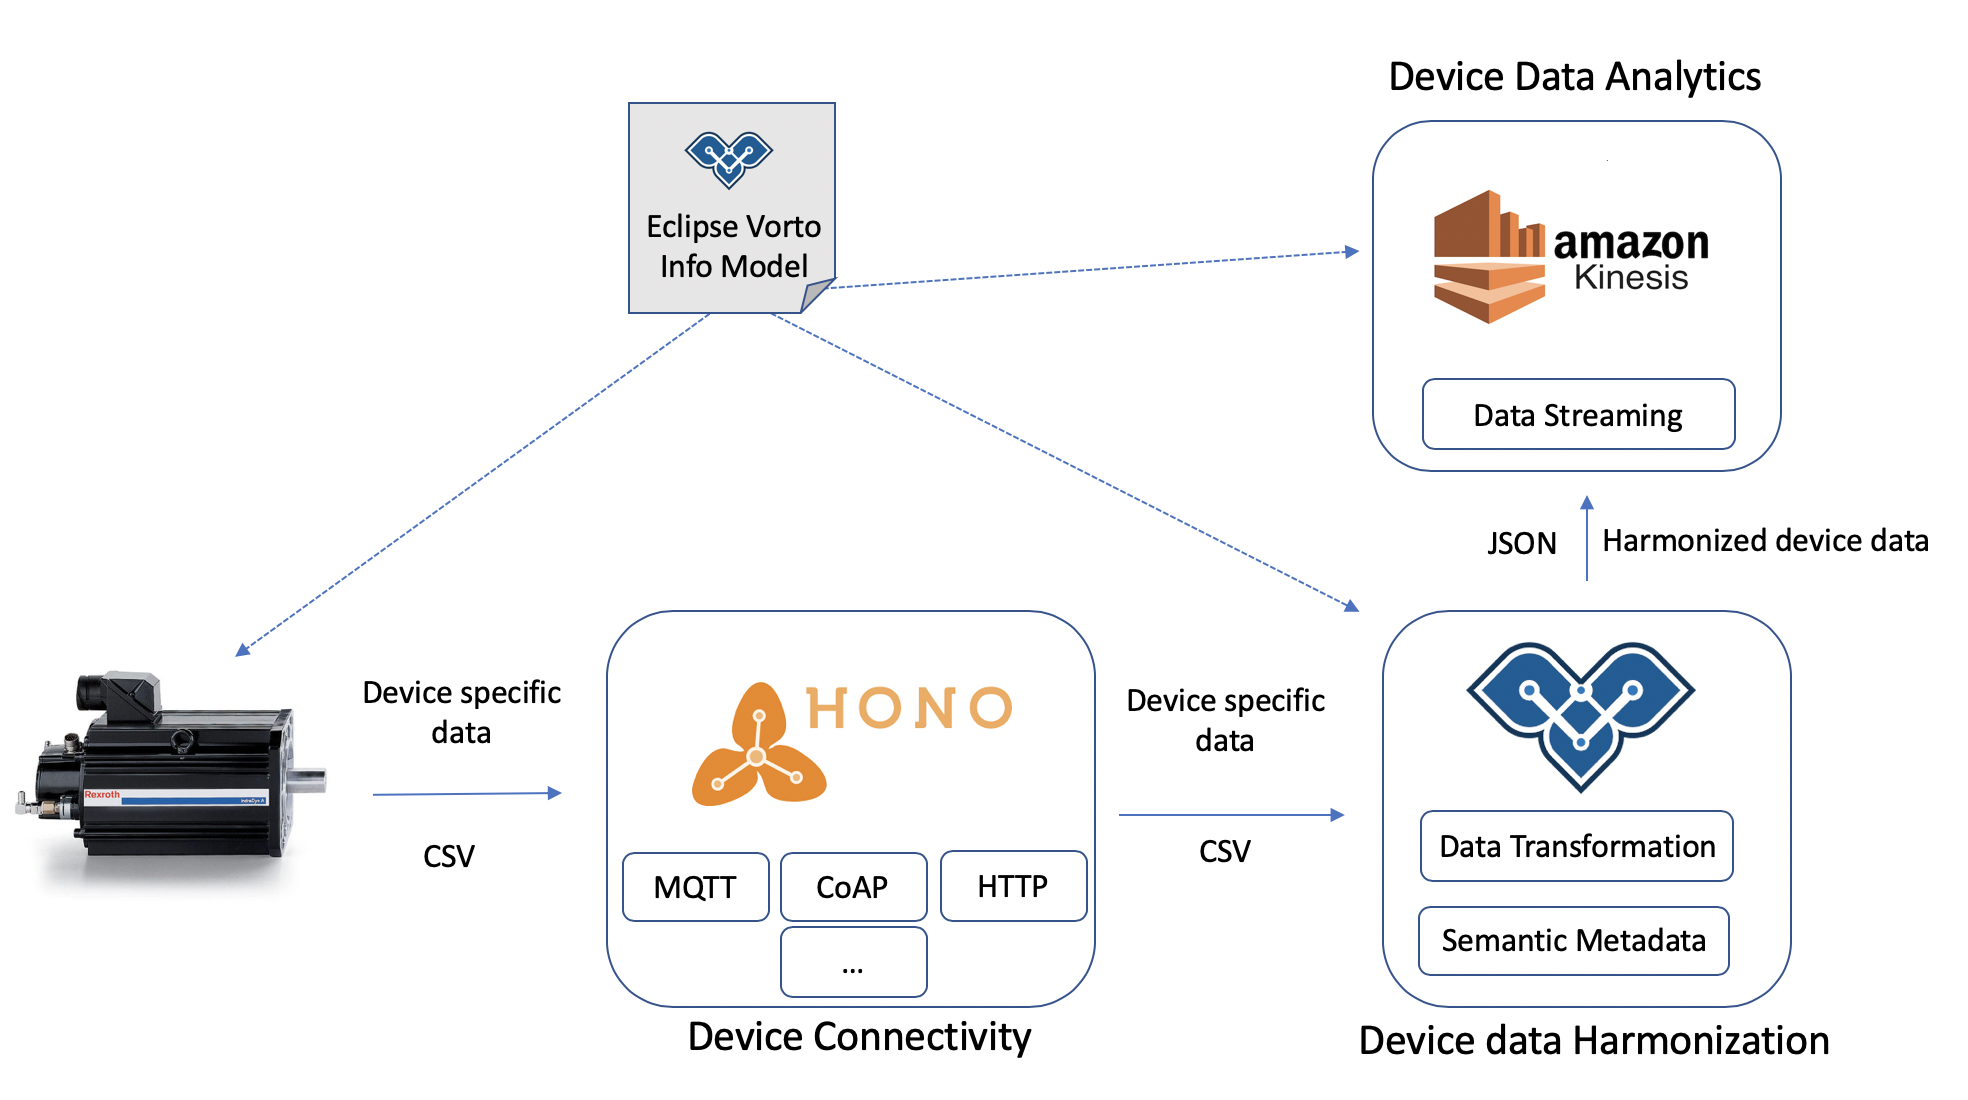
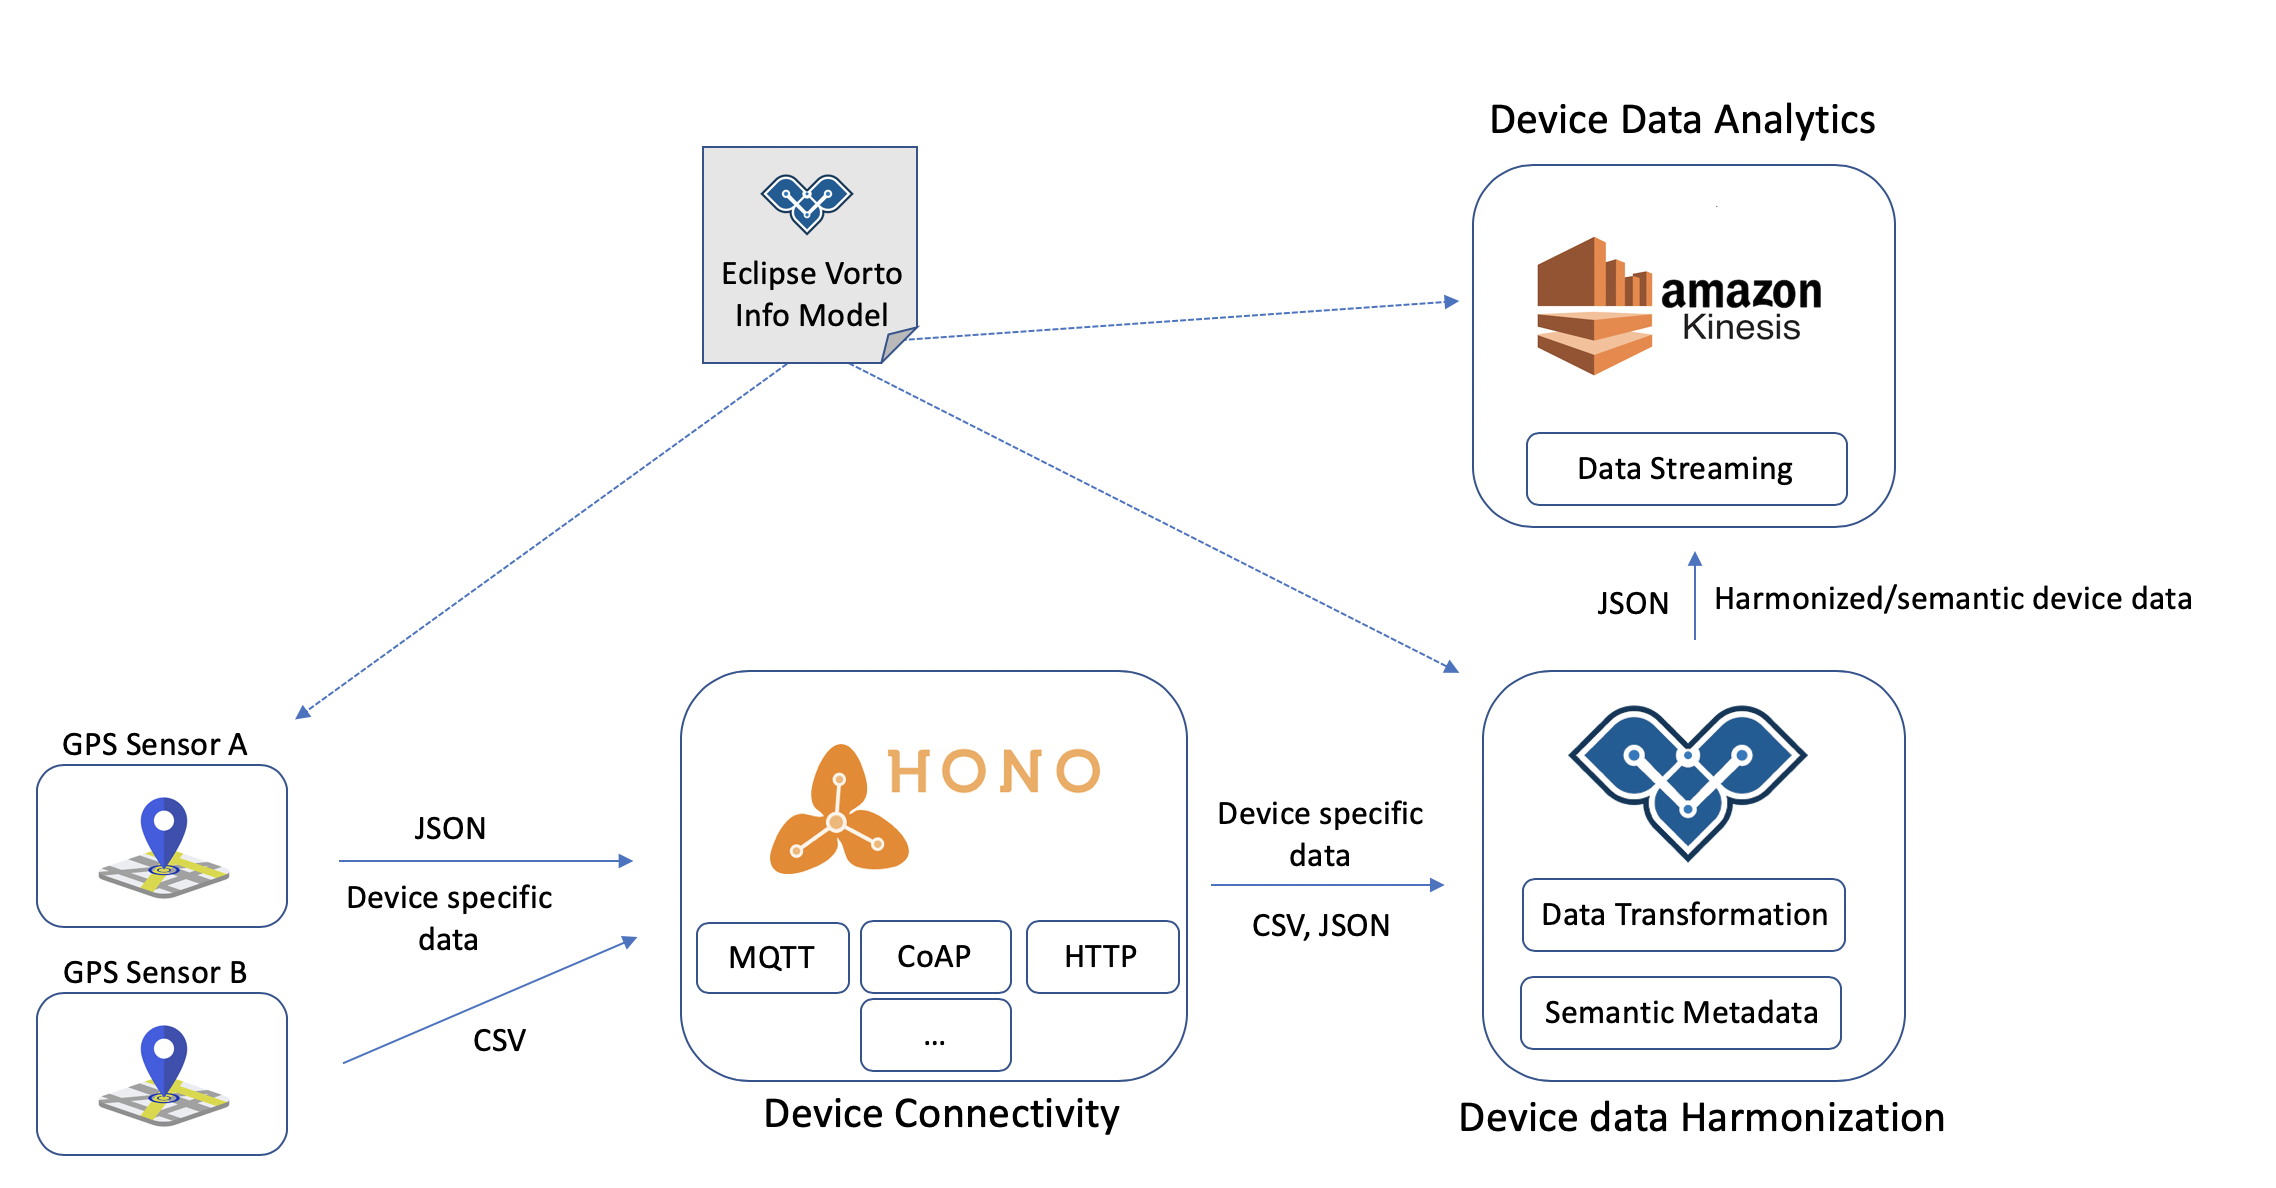
AWS Kinesis tutorial update for GPS Sensors

diff --git a/docs/tutorials/integrate_aws_kinesis.md b/docs/tutorials/integrate_aws_kinesis.md
@@ -1,6 +1,6 @@
 # Integrating AWS Kinesis with Eclipse Vorto for IoT anomaly detection
 
-In this tutorial, you are going to learn, how you can use Eclipse Vorto to send harmonized device telemetry data to AWS Kinesis. 
+In this tutorial, you are going to learn, how you can use [Eclipse Vorto](https://www.eclipse.org/vorto) with [AWS Kinesis](https://aws.amazon.com/kinesis/) in order to do realtime device data analytics. 
 
 <img src="../images/tutorials/integrate_kinesis/cover.png"/>
 
@@ -8,22 +8,19 @@ In this tutorial, you are going to learn, how you can use Eclipse Vorto to send 
 
 > With AWS Kinesis, you can collect and process large amount of data in real time, for example to do anomaly detection or other cool stuff.
 
-If you are now asking yourself, what role Eclipse Vorto plays in using Kinesis, the answer is simple: Eclipse Vorto harmonizes the connected device data before sending it to AWS Kinesis, so that data analytics  can work with the same data format, regardless of how the device/sensors sends the data. 
+We are going to use the GPS sensors, that we had described and connected with Vorto to Eclipse Hono in the [mapping pipeline tutorial](create_mapping_pipeline.md). Makes sure you had worked yourself through that tutorial thoroughly before proceeding because it gives you a very good understanding of the essence of the Eclipse Vorto project and prepares everything you need for this tutorial. 
+Done? Great. Let us proceed then. 
 
-In short, Eclipse Vorto makes it very easy to integrate with AWS Kinesis, thanks to the already available [Vorto AWS Kinesis plugin](https://github.com/eclipse/vorto-examples/blob/master/vorto-middleware/middleware-ext-kinesis/Readme.md). It basically transforms your IoT device data to a normalized, semantic format (e.g. from binary to JSON) and then send it to AWS Kinesis for further processing. 
-
+As illustrated, we are going to send GPS location data via MQTT to Eclipse Hono and intercept the different payload formats (CSV, JSON) using the [Eclipse Vorto normalization middleware](https://github.com/eclipse/vorto-examples/blob/master/vorto-middleware/Readme.md) and the existing [Vorto AWS Kinesis plugin](https://github.com/eclipse/vorto-examples/blob/master/vorto-middleware/middleware-ext-kinesis/Readme.md), in order to transform the data to a normalized, semantically enriched JSON before forwarding this data to an AWS Kinesis data stream, where we analyze the data.
+ 
 <img src="../images/tutorials/integrate_kinesis/overview_kinesis_vorto.png"/>
 
 
 ## Prerequisites
 
-* Read the introduction on the [Eclipse Vorto middleware service](https://github.com/eclipse/vorto-examples/blob/master/vorto-middleware/Readme.md)
-* Set up the Eclipse Vorto normalization middleware and created payload mapping specifications for your connected sensors. Please follow the [mapping pipeline tutorial](create_mapping_pipeline.md) for details.
-* AWS account for using the Kinesis service
+* Successfully completed the [mapping pipeline tutorial](create_mapping_pipeline.md)
 
 <br />
-
-Ready? Cool, let's get started.
 
 ## Steps
 
@@ -32,7 +29,8 @@ Here are the steps, that we are going to take during this tutorial:
 1. Setting up Kinesis on AWS
 2. Configuring and starting the Vorto middleware with your AWS Kinesis data stream settings
 3. Sending device data to Eclipse Hono via MQTT and monitor the incoming data in the Eclipse Vorto middleware dashboard
-4. Verifying the normalized device payload in AWS Kinesis
+4. Creating an AWS Kinesis analytics application
+5. Testing the analytics application
 
 <br />
 
@@ -67,7 +65,7 @@ Here are the steps, that we are going to take during this tutorial:
 
 > Head over to the [mapping tutorial](create_mapping_pipeline.md) to find out more about the right settings. 
 
-## Step 4: Verifying the data in Kinesis
+## Step 4: Creating an AWS Kinesis analytics application
 
 1. Open the Kinesis service dashboard in AWS
 2. Click **Create Analytics Application**
@@ -79,12 +77,25 @@ Here are the steps, that we are going to take during this tutorial:
 8. Leave the other selections as default.
 9. Click **Discover schema**. Make sure you are sending data to the Vorto middleware, so that AWS is able to discover the schema from the data it receives. You should be able to see a table, similar to this:<img src="../images/tutorials/integrate_kinesis/kinesis_discover_schema.png"/>
 10. Select **Save and confinue**
-11. Choose **Go to SQL Editor** in order to process the incoming device data. You can choose from many templates to get you started easily, e.g. **Anomaly detection**
-12. Once you have started the kinesis application, you can define your SQL statements on the incoming Vorto harmonized IoT data.
+11. Choose **Go to SQL Editor** in order to process the incoming device data. Copy the following SQL snippet in the SQL editor and **save&run** the SQL: 
 
-> Don't forget to keep sending data to AWS Kinesis, in order to discover data for defining your SQL statements, as Kinesis operates on real time data. 
+```
+HERE goes the SQL analytics snippet for the gps analytics 
+```
 
-**Congratulations!** You can now easily process Vorto harmonized IoT device data using AWS Kinesis data streams. Checkout the **What's next** section to learn more about Kinesis and the cool use cases it supports .
+TODO: Explain the SQL snippet.
+
+## Step 5: Testing the analytics application
+
+In this step, we are going to send some test data of our first GPS sensor with location data, not meeting the analytics rule.  
+
+```mosquitto pub sending JSON with location data```
+
+Now, we are sending test data of the second gps sensor in CSV format that meets the geofence condition:
+
+```mosquitto pub sending JSON with location data```
+
+Now you can check the Kinesis analytics application on AWS where the stream now contains the data of our second sensor. 
 
 ## What's next?
 
